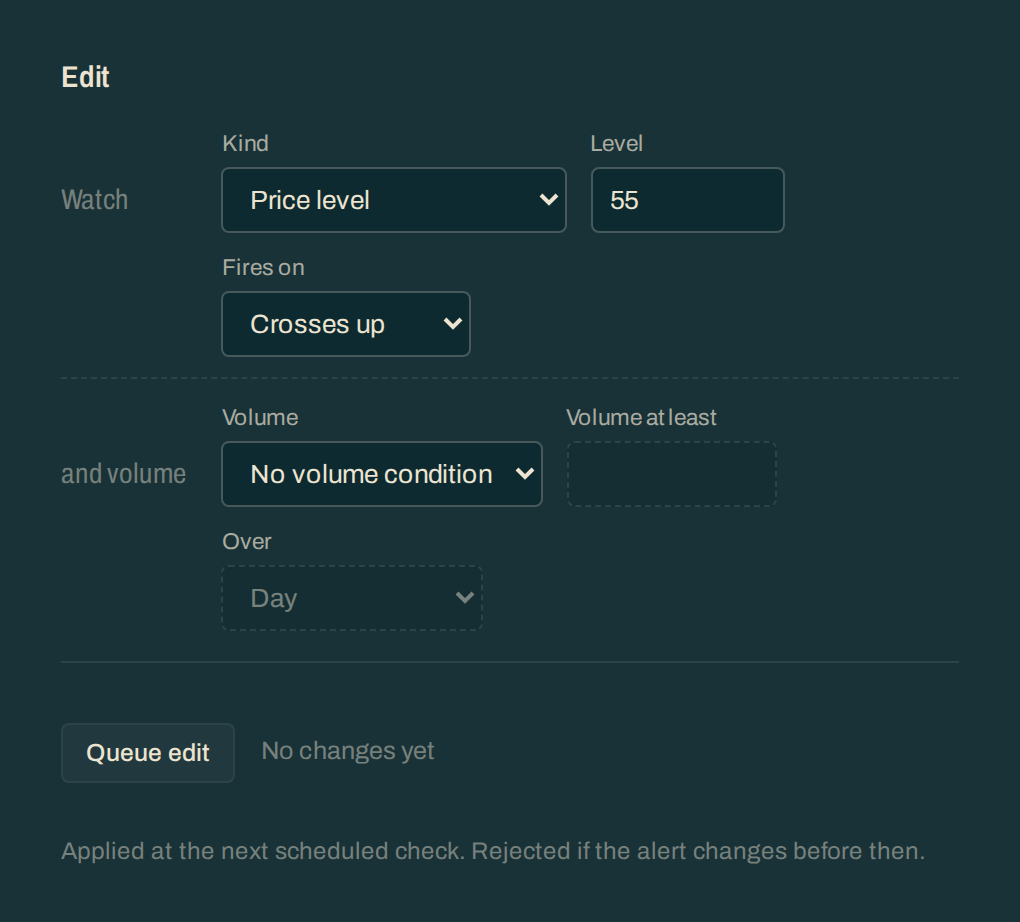
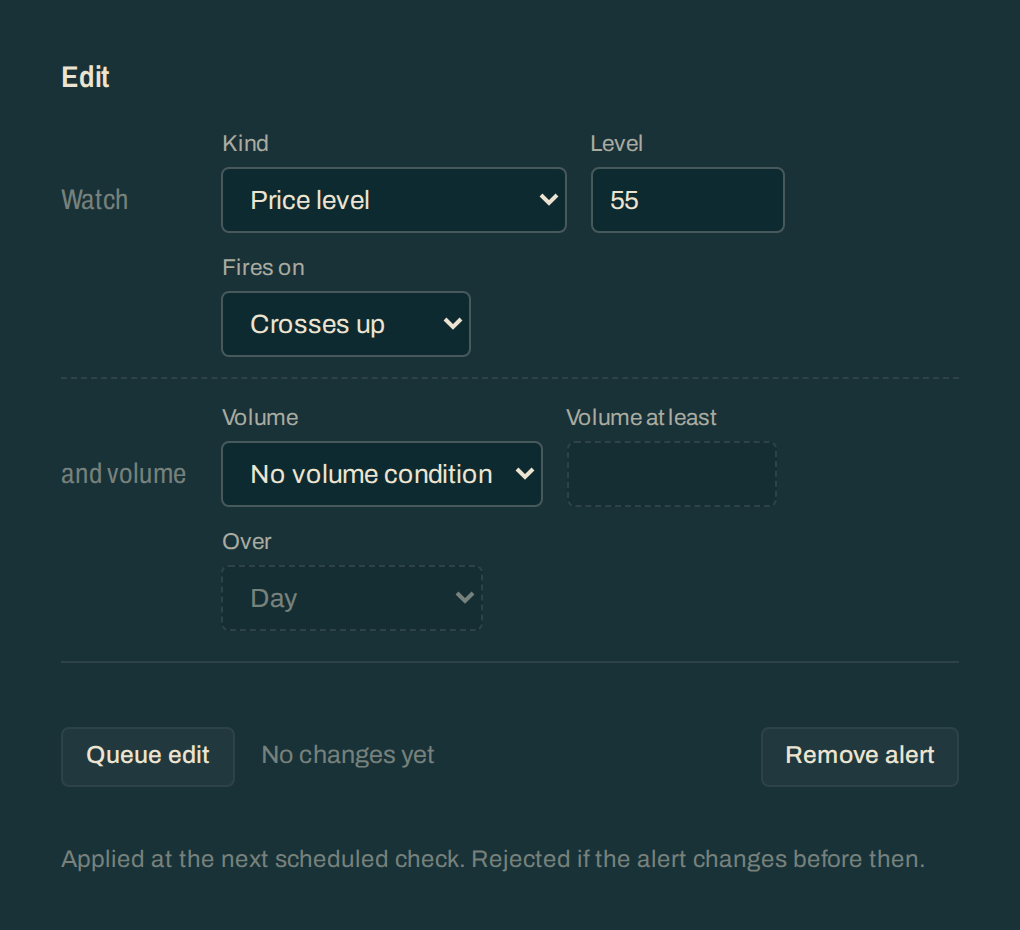
Document revisit closure on Webull trades and bold trade beats in stories
ALERTS.md: stop changes close entries only before 2026-11-05; the purchase
alert move closes them, while the cover sweep and import still don't.
HOLDINGS.md: the sync's buys and sales close a symbol's open entries, a stop
fill doesn't, and the purchase move closes them too. DASHBOARD.md, HOLDINGS.md
and the README: buys, sales and stop sales are bold in the signal colour.

Regenerated the story and alert edit screenshots, which had changed; the
others differed only in fixture dates.

diff --git a/README.md b/README.md
@@ -238,18 +238,18 @@ even after you move or delete the alert:
 
 **7. The story is the part a flat list hides.** Two fires with the re-level between
 them, which is the chase the queue exists to make visible, and your own buys and sales
-threaded through it, so you can see what you did around each fire. "Holding AA" on a
+threaded through it (in bold, so they stand out from the fires), so you can see what you did around each fire. "Holding AA" on a
 fire means you held it *then*. Stories are published only inside the encrypted
 holdings vault, so they appear once editing is unlocked and never on the public page.
 
-![A story: AA has fired 2 times since Sep 20, walking its level from 43 up to 55, with 1 still open, followed by the dated sequence: started watching, bought, added to the position, fired while held, the re-level, and fired again](docs/images/story.png)
+![A story: AA has fired 2 times since Sep 20, walking its level from 43 up to 55, with 1 still open, followed by the dated sequence: started watching, bought and added to the position (both in bold), fired while held, the re-level, and fired again](docs/images/story.png)
 
 **8. You decide, from the page this time.** With editing unlocked, the alert's drawer
 carries an edit form, price and volume together. (The queue row's *Suggest level* and
 *Apply* from step 4 are the shortcut when you agree with what it proposes; this is
 for when you don't.)
 
-![The alert edit form: a Level field, a Fires on select, a Volume mode select, a volume amount field, a window select, a Queue edit button, and a note that the edit is applied at the next scheduled check and rejected if the alert changes before then](docs/images/alert-edit.png)
+![The alert edit form: a Level field, a Fires on select, a Volume mode select, a volume amount field, a window select, Queue edit and Remove alert buttons, and a note that the edit is applied at the next scheduled check and rejected if the alert changes before then](docs/images/alert-edit.png)
 
 **9. Nothing pushes to the machine, so the page says when.** *Queue edit* posts the op
 and the row says what it is waiting for, from the scheduler's own next-run time:

diff --git a/docs/HOLDINGS.md b/docs/HOLDINGS.md
@@ -53,6 +53,10 @@ Every new lot sets the symbol's price alert to **10% above what the lot cost**
   it runs is skipped too.
 - **Adopting or linking** a Webull position is not a purchase and moves nothing;
   neither does `holdings import`.
+- **The move closes the symbol's open revisit entries** (2026-11-05), like the same
+  edit or add from the page, so `holdings cover` takes a `--revisits-file`. The buy
+  has usually closed them already; see
+  [ALERTS.md](ALERTS.md#editing-and-removing) for what the story says.
 
 Nothing changes in `alerts.json` when the lot arrives. The lot records a pending
 purchase in `holdings.json` (`pendingPurchases`), and `holdings cover` applies it
@@ -193,6 +197,12 @@ booked, and a partly filled order books its new shares on a later run. Fills are
 applied only when they account exactly for the change in shares, and never sell
 more than is held along the way. Anything else (a split, history that hasn't
 caught up) is flagged on the page and nothing is applied to that holding.
+
+A buy or sale the sync books closes the symbol's open revisit entries, the same as
+adding or selling a lot from the page (2026-11-05): a trade made in the Webull app
+is a decision about the symbol too. A stop filling is not, and closes nothing; it
+queues its own stop-out entry instead. Neither does a stop the sync mirrors from the
+app, since no stop change closes entries.
 
 ### Stops are Webull orders
 
@@ -520,7 +530,8 @@ not known to be a discretionary exit; sales before 2026-10-08 can't be told.
 position, with nothing recorded. Use it for a lot entered by mistake.
 
 An expanded position ends with its **Story** band: the alerts on that symbol
-woven together with your buys and sales, once it has one.
+woven together with your buys and sales, once it has one. The buys, sales and stop
+sales are set in bold in the signal colour, so the trades stand out from the fires.
 
 None of it is in the published document. The site has no login by default, so
 `dashboard.json` carries no share count, basis, market value or stop; the page reads

diff --git a/docs/ALERTS.md b/docs/ALERTS.md
@@ -279,12 +279,17 @@ symbol's story tells once however many entries it closed:
 | Adding an alert, of any kind | "you added an alert, "price crosses above 60"" |
 | Removing an alert | "you removed the alert "sma200 (1D) is crossed"" |
 | Editing a lot | "you edited a MSFT lot" |
-| Adding, changing or removing a stop | "you set a MSFT stop" / "changed your…" / "removed your…" |
-| Buying or selling (lot added or removed, position removed) | nothing extra: the story already tells those from the lots |
+| Adding, changing or removing a stop (entries closed before 2026-11-05 only) | "you set a MSFT stop" / "changed your…" / "removed your…" |
+| Buying or selling (lot added or removed, position removed, or booked by `holdings sync`) | nothing extra: the story already tells those from the lots |
+| The purchase move `holdings cover` makes for a new lot | told as the alert edit or add it is ("you raised the level 50 to 61") |
 
 A change on a symbol with nothing open in the queue closes nothing, so it isn't
-told. Entries closed before 2026-10-05 have no `closedBy` and tell only a level move. `holdings cover` and `holdings import` don't close entries: they run on
-their own, or in bulk, and are not decisions about a symbol.
+told. That is why the purchase move is usually silent: the buy that caused it has
+normally closed the entries already, so it is told only when a fire lands between
+the buy and the check that moves the alert. Entries closed before 2026-10-05 have
+no `closedBy` and tell only a level move. The `holdings cover` *sweep* (a starting
+alert for an uncovered position) and `holdings import` don't close entries: they
+run on their own, or in bulk, and are not decisions about a symbol.
 
 ## Moving-average alerts
 

diff --git a/docs/DASHBOARD.md b/docs/DASHBOARD.md
@@ -409,7 +409,10 @@ with 1 still open.
 
 Your position is part of the thread. Each lot bought (on its purchase date) and each
 lot removed (when it was removed) is a beat of its own, so the alert history and your
-trades read side by side:
+trades read side by side. On the page those beats (buys, sales, stop sales) are bold
+in the signal colour (2026-11-05): `holdingLines` marks them `trade: true` on the
+`StoryLine`, and every other beat has no flag. A vault sealed before the flag shows
+them plain until the next publish.
 
 ```
   Sep 17: WAT crossed above 425, then fell back below it the same day.
